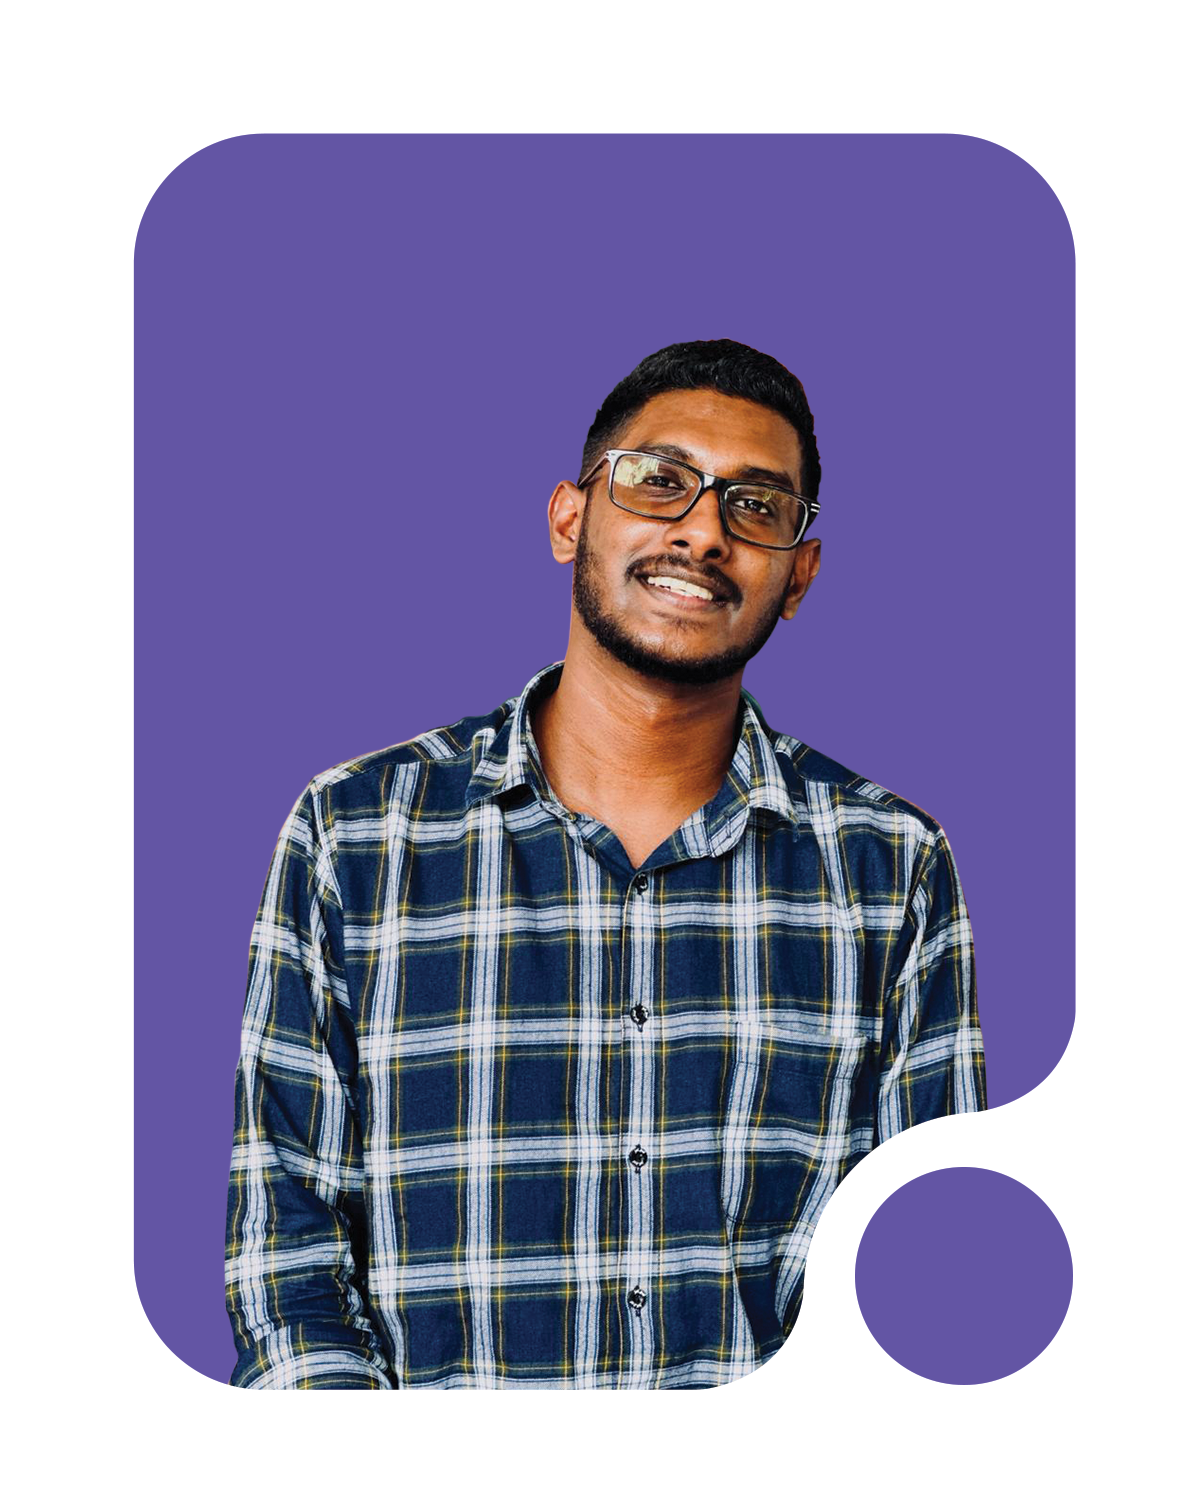
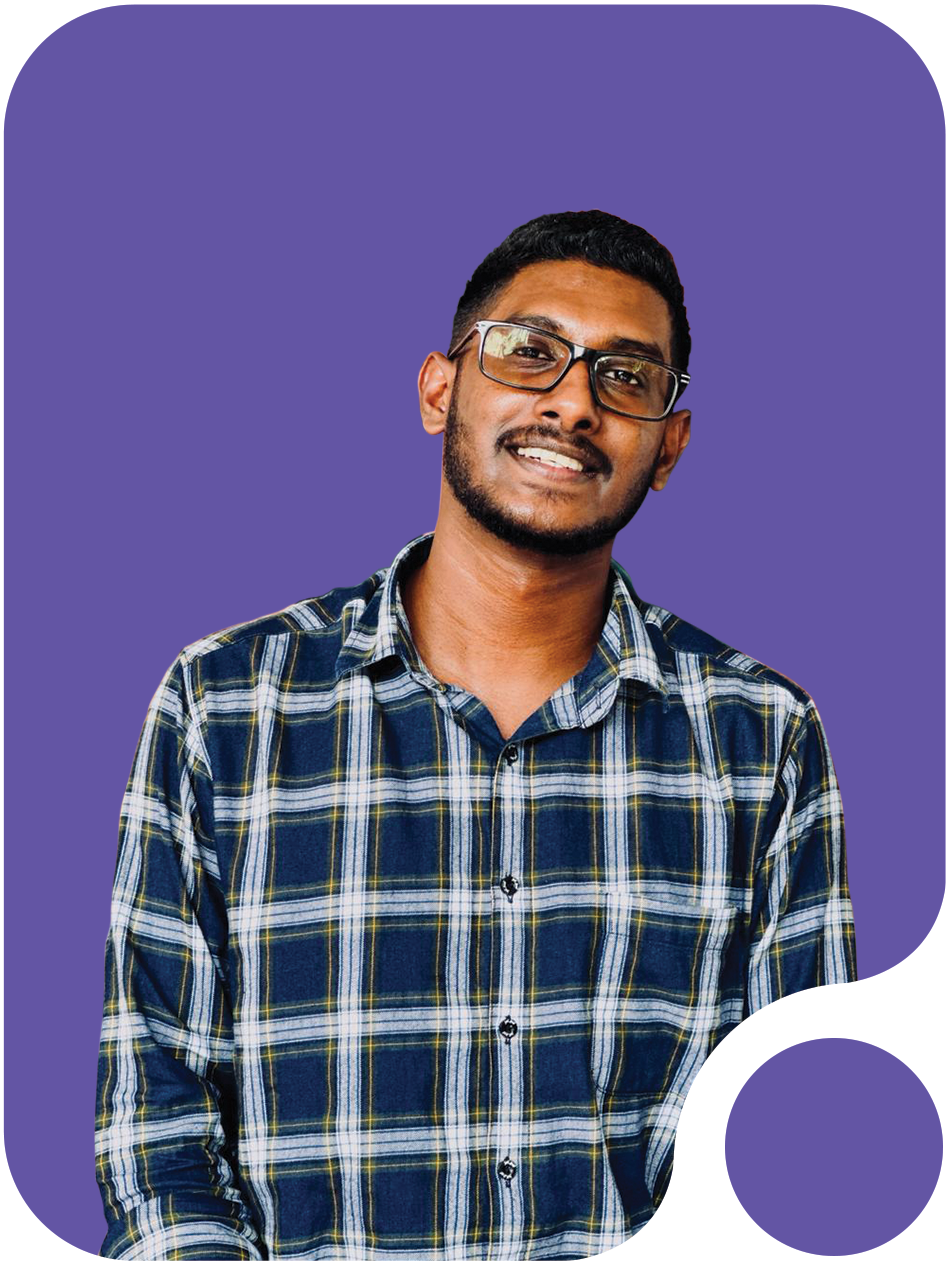
Completed About projects Contact sections

diff --git a/src/components/AboutSection.jsx b/src/components/AboutSection.jsx
@@ -1,0 +1,34 @@
+import React from "react";
+import AboutImg from '../assets/images/about_picture.png';
+
+function AboutSection() {
+    return(
+        <div className='bg-primary text-light py-5' id='about'>
+            <div className='container py-5'>
+                <div className='flex-column-reverse flex-md-row row'>
+                    <div className='col-md-6 mt-5 mt-md-0  d-flex flex-column align-items-md-start align-items-center'>
+                       <img className='img-fluid w-75' src={AboutImg} alt="about img" />
+                    </div>
+                    <div className='col-md-6 d-flex flex-column justify-content-center'>
+                        <h2 className='md-5 pb-4'>About Me</h2>
+                        <p className='text-start fs-6 lh-base'>I am a Software Engineering graduate, frontend developer with good experience in building web development solutions.
+                        In addition, a person who is particularly interested in UI/UX designing.
+                        I have knowledge and experience of HTML, CSS, JavaScript, Bootstrap, Tailwind CSS, VueJS, React, Adobe Photoshop,
+                        Adobe illustrator, Adobe XD and Figma. Also have a little academic knowledge of PHP, C, C#, JAVA, SQL.
+                        And also I have five years of freelance experience in graphic design, logo and illustration categories.
+                        This fusion of development prowess and design acumen empowers me to create visually captivating and
+                        functionally superior digital experiences.</p>
+                        <p className='text-start mb-5 fs-6 lh-base'>Beyond my technical skills, I am passionate about staying updated with the latest industry trends and
+                        continuously improving my craft. I thrive on challenging projects that allow me to push the boundaries of
+                        software design and development. My approach is user-centric, ensuring that every project not only meets
+                        client expectations but also provides an exceptional user experience. I am eager to bring my unique blend
+                        of skills to innovative projects and collaborate with forward-thinking teams to create impactful digital
+                        solutions.</p>
+                    </div>
+                </div>
+            </div>
+        </div>
+    )
+}
+
+export default AboutSection;

diff --git a/src/components/Header.jsx b/src/components/Header.jsx
@@ -1,0 +1,29 @@
+import React from "react";
+import DownloadCVBtn from "./DownloadCVBtn";
+import HeaderImg from '../assets/images/profile_picture.png';
+
+function Header() {
+    return(
+        <header className='pt-5' id='header'>
+           <div className='container py-md-5'>
+            <div className='row'>
+               <div className='col-md-6 d-flex flex-column align-items-start justify-content-center mt-5 mt-md-0'>
+                  <h2 className='text-dark text-start fw-bold'>I,m Paduma Hitihami.</h2>
+                  <h3 className='text-capitalize text-start text-primary fs-3 mb-4'>font-end web developer</h3>
+                  <p className='text-dark text-start fs-6 lh-base pb-4'>I am a Software Engineering graduate, frontend developer with good experience in building web development solutions. 
+                  In addition, a person who is particularly interested in UI/UX designing. With over five years of freelance experience in Graphic 
+                  Design, I possess a multifaceted skill set enriched by proficiency in Adobe Photoshop, Adobe Illustrator, Adobe XD, and Figma. 
+                  This fusion of development prowess and design acumen empowers me to create visually captivating and functionally superior
+                  digital experiences.</p>
+                  <DownloadCVBtn />
+               </div>
+               <div className='col-md-6 d-flex justify-content-center justify-content-md-end'>
+                  <img className='img-fluid w-75 my-5' src={HeaderImg} alt="header Img" />
+               </div>
+            </div>
+           </div>
+        </header>
+    )
+}
+
+export default Header;

diff --git a/src/components/ContactSection.jsx b/src/components/ContactSection.jsx
@@ -1,0 +1,33 @@
+import React from "react";
+import Button from "react-bootstrap/Button";
+import Form from "react-bootstrap/Form";
+
+function ContactSection() {
+    return (
+       <div className="pb-5" id='contact'>
+         <div className="container px-lg-5">
+            <h2 className='mb-5'>Contact Me</h2>
+            <Form className="px-lg-5 text-secondary pb-3">
+               <div className="row">
+                 <Form.Group className="md-3 col-lg-4 pb-4" controlId="firstName">
+                    <Form.Control className="shadow-sm" type="text" placeholder="Your Name"/>
+                 </Form.Group>
+                 <Form.Group className="md-3 col-lg-4 pb-4" controlId="emailAddress">
+                    <Form.Control className="shadow-sm" type="email" placeholder="Your Email Address Here"/>
+                 </Form.Group>
+                 <Form.Group className="md-3 col-lg-4 pb-4" controlId="phoneNumber">
+                    <Form.Control className="shadow-sm" type="text" placeholder="Your Phone Number Here"/>
+                 </Form.Group>
+                 <Form.Group className="md-3 pb-4" controlId="textArea">
+                    <Form.Control className="shadow-sm" as="textarea" placeholder="Your Message Here..." rows={5} />
+                 </Form.Group>
+               </div>
+            </Form>
+            <Button variant="primary" type="submit">Send Message</Button>
+         </div>
+       </div>
+    )
+}
+
+
+export default ContactSection;

diff --git a/src/assets/ProjectsItems.js b/src/assets/ProjectsItems.js
@@ -1,0 +1,34 @@
+import Project1Img from './images/project1-img.png';
+import Project2Img from './images/project2-img.png';
+import Project3Img from './images/project3-img.png';
+import Project4Img from './images/project4-img.png';
+
+const ProjectsItems = [
+    {
+        id: 1,
+        ProjectImg: Project1Img,
+        ProjectTitle: 'Project 1',
+        ProjectDescription: 'Lorem Ipsum is simply dummy text of the printing and typesetting industry. Lorem Ipsum has been the industrys standard dummy text ever since the 1500s.'
+    },
+    {
+        id: 2,
+        ProjectImg: Project2Img,
+        ProjectTitle: 'Project 2',
+        ProjectDescription: 'Lorem Ipsum is simply dummy text of the printing and typesetting industry. Lorem Ipsum has been the industrys standard dummy text ever since the 1500s.'
+    },
+    {
+        id: 3,
+        ProjectImg: Project3Img,
+        ProjectTitle: 'Project 3',
+        ProjectDescription: 'Lorem Ipsum is simply dummy text of the printing and typesetting industry. Lorem Ipsum has been the industrys standard dummy text ever since the 1500s.'
+    },
+    {
+        id: 4,
+        ProjectImg: Project4Img,
+        ProjectTitle: 'Project 4',
+        ProjectDescription: 'Lorem Ipsum is simply dummy text of the printing and typesetting industry. Lorem Ipsum has been the industrys standard dummy text ever since the 1500s.'
+    }
+]
+
+
+export default ProjectsItems;

diff --git a/src/scss/custom.scss b/src/scss/custom.scss
@@ -8,20 +8,50 @@
 .App{
     font-family: "Poppins", sans-serif;
 
-    h1, h2, .navbar-brand {
+    .navbar-brand {
         font-family: "Bebas Neue", sans-serif;
     }
+    
+    .nav-link:hover {
+        transform: scale(1.05);
+        transition: all 0.7s;
+        text-decoration: fw-bold;
+    }
+    
+    h2 {
+        font-size: 3rem;
+
+        @include extraLarge {
+            font-size: 2.5rem;
+        }
+
+        @include large {
+            font-size: 2rem;
+        }
+    }
+
+    .card {
+        overflow-x: hidden;
+
+        .card-img-top {
+            transition: all 0.3s;
+
+            &:hover {
+                cursor: pointer;
+                scale: 1.1;
+                transition: all 0.3s;
+            }
+        }
+    }
+
+    .form-control::placeholder {
+        opacity: 0.5;
+    } 
 }
 
 $primary:#712cf9;
 $light:#ffffff;
 
-
-.nav-link:hover {
-    transform: scale(1.05);
-    transition: all 0.7s;
-    text-decoration: fw-bold;
-}
 
 
 @import  '~bootstrap/scss/bootstrap.scss';

diff --git a/src/components/ProjectsSection.jsx b/src/components/ProjectsSection.jsx
@@ -1,0 +1,25 @@
+import React from "react";
+import ProjectsItems from "../assets/ProjectsItems";
+import ProjectCard from "./ProjectCard";
+import LoadMoreBtn from "./LoadMoreBtn";
+
+function ProjectsSection() {
+    return(
+        <div className='py-5' id='projects'>
+            <div className='container py-md-5'>
+               <h2 className='mb-5'>MY Projects</h2>
+                <div className='row g-4 pb-5'>
+                   {
+                      ProjectsItems.map((project) => <ProjectCard key={project.id} ProjectImage={project.ProjectImg} ProjectName={project.ProjectTitle} ProjectDesc={project.ProjectDescription} />)
+                   }
+                </div> 
+                <div className='pt-lg-5'>
+                    <LoadMoreBtn />
+                </div>             
+            </div>
+        </div>
+    )
+}
+
+
+export default ProjectsSection;

diff --git a/src/components/ProjectCard.jsx b/src/components/ProjectCard.jsx
@@ -1,0 +1,20 @@
+import React from "react";
+import Card from 'react-bootstrap/Card';
+import Button from 'react-bootstrap/Button';
+
+function ProjectCard(props) {
+    return (
+        <div className='col-md-3'>
+           <Card className='h-100 rounded-5 shadow'>
+              <Card.Img className='rounded-top-5' variant="top" src={props.ProjectImage} />
+              <Card.Body className="p-5">
+                <Card.Title className="fw-bold text-uppercase mb-4 fs-3">{props.ProjectName}</Card.Title>
+                <Card.Text className="fs-6 lh-base">{props.ProjectDesc}</Card.Text>
+                <Button className="shadow text-capitalize" variant="outline-primary">View project</Button>
+              </Card.Body>
+           </Card>
+        </div>
+    )
+}
+
+export default ProjectCard;

diff --git a/src/components/NavigationBar.jsx b/src/components/NavigationBar.jsx
@@ -18,7 +18,7 @@ function NavigationBar() {
                     <Nav.Link href='#header' className='text-light'>Home</Nav.Link>
                     <Nav.Link href='#about' className='text-light'>About</Nav.Link>
                     <Nav.Link href='#projects' className='text-light'>Projects</Nav.Link>
-                    <Nav.Link href='#contact' type="button" className='text-primary fw-semibold btn bg-light active'>Contact</Nav.Link>
+                    <Nav.Link href='#contact' type="button" className='text-primary fw-semibold btn bg-light'>Contact</Nav.Link>
                   </Nav>
                </Navbar.Collapse>
            </Container>

diff --git a/src/App.js b/src/App.js
@@ -1,10 +1,18 @@
 import './App.css';
 import NavigationBar from './components/NavigationBar';
+import Header from './components/Header';
+import AboutSection from './components/AboutSection';
+import ProjectsSection from './components/ProjectsSection';
+import ContactSection from './components/ContactSection';
 
 function App() {
   return (
     <div className="App">
       <NavigationBar/>
+      <Header/>
+      <AboutSection/>
+      <ProjectsSection/>
+      <ContactSection />
     </div>
   );
 }

diff --git a/src/components/DownloadCVBtn.jsx b/src/components/DownloadCVBtn.jsx
@@ -1,0 +1,12 @@
+import React from "react";
+
+function DownloadCVBtn() {
+    return(
+        <a href="#">
+           <button className='btn btn-primary shadow text-capitalize text-light fw-semibold'>Download CV</button>
+        </a>
+    )
+}
+
+
+export default DownloadCVBtn;

diff --git a/src/components/LoadMoreBtn.jsx b/src/components/LoadMoreBtn.jsx
@@ -1,0 +1,12 @@
+import React from "react";
+
+function LoadMoreBtn() {
+    return(
+        <a href="#">
+           <button className='btn btn-primary shadow text-capitalize text-light fw-semibold'>Load More</button>
+        </a>
+    )
+}
+
+
+export default LoadMoreBtn;

diff --git a/src/scss/_mixins.scss b/src/scss/_mixins.scss
@@ -1,0 +1,11 @@
+@mixin large {
+    @media (max-width: $large) {
+        @content;
+    }
+}
+
+@mixin extraLarge {
+    @media (max-width: $extraLarge) {
+        @content;
+    }
+}
